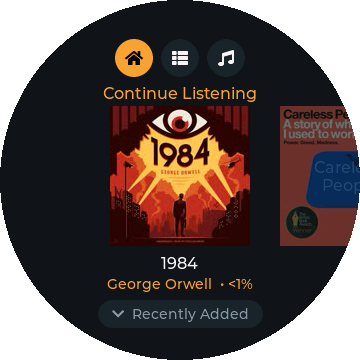
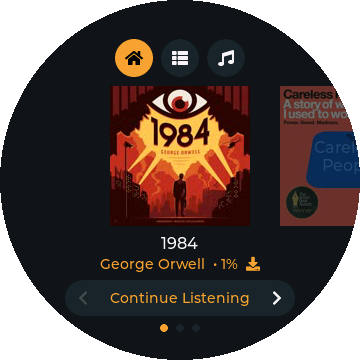
Home: switch shelves with a bottom switcher instead of vertical swipes
Vertical swipes were unreliable (touches were taken by the covers and
buttons). The shelf name now sits at the bottom in a pill with prev/next
arrows and a dot per shelf; tap an arrow or swipe left/right on the pill.
The pill stops gesture bubbling, so its swipes never also move the
carousel. With the title gone the covers move up. README screenshots
updated.

diff --git a/main/ui_home.c b/main/ui_home.c
@@ -1,16 +1,21 @@
-// Home: shelves of books, one row at a time. Swipe left/right within a row, up/down between rows.
+// Home: shelves of books, one at a time. Swipe left/right on the covers to browse a shelf; change
+// shelf with the switcher at the bottom ("<  Recently Added  >", with a dot per shelf): tap its
+// arrows or swipe left/right on it. Swipes on the switcher stay there (they don't bubble to the
+// page), so they never also move the carousel.
 
 #include "carousel.h"
 #include "cover.h"
 #include "ui_priv.h"
 
-#define ROW_TITLE_Y  PAGE_TOP
-#define CAROUSEL_Y   (PAGE_TOP + 22)
+#define CAROUSEL_Y   (PAGE_TOP + 2)
+#define SWITCHER_Y   (CAROUSEL_Y + COVER_THUMB_SIZE + 54)
+#define SWITCHER_W   230
+#define SWITCHER_H   36
 
 typedef struct {
     const char *name;
     const book_list_t *books;
-    int pos;  // remembered position within the row
+    int pos;  // remembered position within the shelf
 } row_t;
 
 static row_t s_rows[] = {
@@ -20,7 +25,8 @@ static row_t s_rows[] = {
 };
 #define ROW_COUNT (int)(sizeof(s_rows) / sizeof(s_rows[0]))
 
-static lv_obj_t *s_page, *s_group, *s_title, *s_hint, *s_empty;
+static lv_obj_t *s_group, *s_name, *s_prev, *s_next, *s_empty;
+static lv_obj_t *s_dots[ROW_COUNT];
 static carousel_t *s_carousel;
 static int s_row = -1;
 
@@ -37,9 +43,16 @@ static int next_row(int from, int dir)
     return -1;
 }
 
-static void group_set_y(void *obj, int32_t y)
+static void group_set_x(void *obj, int32_t x)
 {
-    lv_obj_set_y(obj, y);
+    lv_obj_set_x(obj, x);
+}
+
+static void set_enabled(lv_obj_t *btn, bool on)
+{
+    lv_obj_set_style_opa(lv_obj_get_child(btn, 0), on ? LV_OPA_COVER : LV_OPA_20, 0);
+    if (on) lv_obj_add_flag(btn, LV_OBJ_FLAG_CLICKABLE);
+    else lv_obj_remove_flag(btn, LV_OBJ_FLAG_CLICKABLE);
 }
 
 static void show_row(int r, int dir)
@@ -48,78 +61,84 @@ static void show_row(int r, int dir)
         s_rows[s_row].pos = carousel_pos(s_carousel);
     }
     s_row = r;
-    const bool any = r >= 0;
-    if (any) {
-        lv_obj_remove_flag(s_group, LV_OBJ_FLAG_HIDDEN);
-        lv_obj_add_flag(s_empty, LV_OBJ_FLAG_HIDDEN);
-    } else {
+    if (r < 0) {
         lv_obj_add_flag(s_group, LV_OBJ_FLAG_HIDDEN);
         lv_obj_remove_flag(s_empty, LV_OBJ_FLAG_HIDDEN);
         return;
     }
-    lv_label_set_text(s_title, s_rows[r].name);
-    carousel_set_items(s_carousel, s_rows[r].books->idx, s_rows[r].books->count, s_rows[r].pos);
+    lv_obj_remove_flag(s_group, LV_OBJ_FLAG_HIDDEN);
+    lv_obj_add_flag(s_empty, LV_OBJ_FLAG_HIDDEN);
 
-    // Point at the neighbouring shelf so the vertical swipe is discoverable.
-    int below = next_row(r, 1), above = next_row(r, -1);
-    static char hint[48];
-    if (below >= 0) {
-        lv_snprintf(hint, sizeof(hint), LV_SYMBOL_DOWN "  %s", s_rows[below].name);
-    } else if (above >= 0) {
-        lv_snprintf(hint, sizeof(hint), LV_SYMBOL_UP "  %s", s_rows[above].name);
-    } else {
-        hint[0] = 0;
+    lv_label_set_text(s_name, s_rows[r].name);
+    carousel_set_items(s_carousel, s_rows[r].books->idx, s_rows[r].books->count, s_rows[r].pos);
+    set_enabled(s_prev, next_row(r, -1) >= 0);
+    set_enabled(s_next, next_row(r, 1) >= 0);
+    // One dot per non-empty shelf; the current one highlighted.
+    for (int i = 0; i < ROW_COUNT; i++) {
+        if (row_has_books(i)) lv_obj_remove_flag(s_dots[i], LV_OBJ_FLAG_HIDDEN);
+        else lv_obj_add_flag(s_dots[i], LV_OBJ_FLAG_HIDDEN);
+        lv_obj_set_style_bg_color(s_dots[i], i == r ? COLOR_ACCENT : COLOR_CARD, 0);
     }
-    lv_label_set_text(s_hint, hint);
-    lv_obj_t *pill = lv_obj_get_parent(s_hint);
-    if (hint[0]) lv_obj_remove_flag(pill, LV_OBJ_FLAG_HIDDEN);
-    else lv_obj_add_flag(pill, LV_OBJ_FLAG_HIDDEN);
 
     if (dir) {
-        // Slide the new shelf in from the direction of travel.
+        // Slide the new shelf in from the side it came from.
         lv_anim_t a;
         lv_anim_init(&a);
         lv_anim_set_var(&a, s_group);
-        lv_anim_set_exec_cb(&a, group_set_y);
-        lv_anim_set_values(&a, dir * 50, 0);
+        lv_anim_set_exec_cb(&a, group_set_x);
+        lv_anim_set_values(&a, dir * 40, 0);
         lv_anim_set_duration(&a, 200);
         lv_anim_set_path_cb(&a, lv_anim_path_ease_out);
         lv_anim_start(&a);
     }
 }
 
-static void on_gesture(lv_event_t *e)
+static void change_shelf(int dir)
 {
-    if (s_row < 0) return;
-    switch (lv_indev_get_gesture_dir(lv_indev_active())) {
-    case LV_DIR_LEFT:  carousel_step(s_carousel, 1); break;
-    case LV_DIR_RIGHT: carousel_step(s_carousel, -1); break;
-    case LV_DIR_TOP: {
-        int r = next_row(s_row, 1);
-        if (r >= 0) show_row(r, 1);
-        break;
-    }
-    case LV_DIR_BOTTOM: {
-        int r = next_row(s_row, -1);
-        if (r >= 0) show_row(r, -1);
-        break;
-    }
-    default: break;
-    }
+    int r = next_row(s_row, dir);
+    if (r >= 0) show_row(r, dir);
 }
 
-static void on_hint_clicked(lv_event_t *e)
+static void on_prev(lv_event_t *e) { change_shelf(-1); }
+static void on_next(lv_event_t *e) { change_shelf(1); }
+
+static void on_switcher_gesture(lv_event_t *e)
 {
-    int r = next_row(s_row, 1);
-    if (r >= 0) show_row(r, 1);
-    else if ((r = next_row(s_row, -1)) >= 0) show_row(r, -1);
+    lv_dir_t dir = lv_indev_get_gesture_dir(lv_indev_active());
+    if (dir == LV_DIR_LEFT) change_shelf(1);
+    else if (dir == LV_DIR_RIGHT) change_shelf(-1);
+}
+
+// Swipes anywhere else on the page browse the current shelf.
+static void on_page_gesture(lv_event_t *e)
+{
+    if (s_row < 0) return;
+    lv_dir_t dir = lv_indev_get_gesture_dir(lv_indev_active());
+    if (dir == LV_DIR_LEFT) carousel_step(s_carousel, 1);
+    else if (dir == LV_DIR_RIGHT) carousel_step(s_carousel, -1);
+}
+
+static lv_obj_t *arrow(lv_obj_t *parent, const char *sym, lv_event_cb_t cb, lv_align_t align)
+{
+    lv_obj_t *b = lv_button_create(parent);
+    lv_obj_set_size(b, SWITCHER_H, SWITCHER_H);
+    lv_obj_set_style_radius(b, LV_RADIUS_CIRCLE, 0);
+    lv_obj_set_style_bg_opa(b, LV_OPA_TRANSP, 0);
+    lv_obj_set_style_bg_color(b, COLOR_ACCENT, LV_STATE_PRESSED);
+    lv_obj_set_style_bg_opa(b, LV_OPA_COVER, LV_STATE_PRESSED);
+    lv_obj_set_style_shadow_width(b, 0, 0);
+    lv_obj_align(b, align, 0, 0);
+    lv_obj_t *l = ui_label(b, &lv_font_montserrat_16, COLOR_TEXT, 0);
+    lv_label_set_text(l, sym);
+    lv_obj_center(l);
+    lv_obj_add_event_cb(b, cb, LV_EVENT_CLICKED, NULL);
+    return b;
 }
 
 void home_build(lv_obj_t *page)
 {
-    s_page = page;
     lv_obj_add_flag(page, LV_OBJ_FLAG_CLICKABLE);  // so swipes on empty space register
-    lv_obj_add_event_cb(page, on_gesture, LV_EVENT_GESTURE, NULL);
+    lv_obj_add_event_cb(page, on_page_gesture, LV_EVENT_GESTURE, NULL);
 
     s_group = lv_obj_create(page);
     lv_obj_remove_style_all(s_group);
@@ -127,27 +146,42 @@ void home_build(lv_obj_t *page)
     lv_obj_remove_flag(s_group, LV_OBJ_FLAG_SCROLLABLE);
     lv_obj_remove_flag(s_group, LV_OBJ_FLAG_CLICKABLE);
 
-    s_title = ui_label(s_group, &lv_font_montserrat_16, COLOR_ACCENT, 260);
-    lv_obj_align(s_title, LV_ALIGN_TOP_MID, 0, ROW_TITLE_Y);
-
     // No ring on Home, so the carousel can use the full width.
     const carousel_cfg_t cfg = {.y = CAROUSEL_Y, .x = 0, .width = 360, .title_w = 240, .sub_w = 230};
     s_carousel = carousel_create(s_group, &cfg);
 
-    // Names the neighbouring shelf; tapping it moves there too (swiping isn't discoverable).
-    lv_obj_t *pill = lv_button_create(s_group);
-    lv_obj_set_size(pill, LV_SIZE_CONTENT, 28);
-    lv_obj_set_style_radius(pill, 14, 0);
-    lv_obj_set_style_bg_color(pill, COLOR_CARD, 0);
-    lv_obj_set_style_bg_color(pill, COLOR_ACCENT, LV_STATE_PRESSED);
-    lv_obj_set_style_shadow_width(pill, 0, 0);
-    lv_obj_set_style_pad_hor(pill, 14, 0);
-    lv_obj_set_style_pad_ver(pill, 0, 0);
-    lv_obj_align(pill, LV_ALIGN_TOP_MID, 0, CAROUSEL_Y + COVER_THUMB_SIZE + 54);
-    lv_obj_add_event_cb(pill, on_hint_clicked, LV_EVENT_CLICKED, NULL);
-    s_hint = ui_label(pill, &lv_font_montserrat_14, COLOR_MUTED, 0);
-    lv_obj_center(s_hint);
+    // Shelf switcher. Clickable so it receives swipes itself; gestures don't bubble past it.
+    lv_obj_t *sw = lv_obj_create(s_group);
+    lv_obj_remove_style_all(sw);
+    lv_obj_set_size(sw, SWITCHER_W, SWITCHER_H);
+    lv_obj_align(sw, LV_ALIGN_TOP_MID, 0, SWITCHER_Y);
+    lv_obj_set_style_radius(sw, SWITCHER_H / 2, 0);
+    lv_obj_set_style_bg_color(sw, COLOR_CARD, 0);
+    lv_obj_set_style_bg_opa(sw, LV_OPA_COVER, 0);
+    lv_obj_add_flag(sw, LV_OBJ_FLAG_CLICKABLE);
+    lv_obj_remove_flag(sw, LV_OBJ_FLAG_SCROLLABLE | LV_OBJ_FLAG_GESTURE_BUBBLE);
+    lv_obj_add_event_cb(sw, on_switcher_gesture, LV_EVENT_GESTURE, NULL);
 
+    s_prev = arrow(sw, LV_SYMBOL_LEFT, on_prev, LV_ALIGN_LEFT_MID);
+    s_next = arrow(sw, LV_SYMBOL_RIGHT, on_next, LV_ALIGN_RIGHT_MID);
+    s_name = ui_label(sw, &lv_font_montserrat_14, COLOR_ACCENT, SWITCHER_W - 2 * SWITCHER_H - 8);
+    lv_label_set_long_mode(s_name, LV_LABEL_LONG_SCROLL_CIRCULAR);
+    lv_obj_center(s_name);
+
+    lv_obj_t *dots = lv_obj_create(s_group);
+    lv_obj_remove_style_all(dots);
+    lv_obj_set_size(dots, LV_SIZE_CONTENT, 8);
+    lv_obj_set_flex_flow(dots, LV_FLEX_FLOW_ROW);
+    lv_obj_set_style_pad_column(dots, 8, 0);
+    lv_obj_align(dots, LV_ALIGN_TOP_MID, 0, SWITCHER_Y + SWITCHER_H + 8);
+    lv_obj_remove_flag(dots, LV_OBJ_FLAG_CLICKABLE | LV_OBJ_FLAG_SCROLLABLE);
+    for (int i = 0; i < ROW_COUNT; i++) {
+        s_dots[i] = lv_obj_create(dots);
+        lv_obj_remove_style_all(s_dots[i]);
+        lv_obj_set_size(s_dots[i], 8, 8);
+        lv_obj_set_style_radius(s_dots[i], LV_RADIUS_CIRCLE, 0);
+        lv_obj_set_style_bg_opa(s_dots[i], LV_OPA_COVER, 0);
+    }
 
     s_empty = ui_label(page, &lv_font_montserrat_16, COLOR_MUTED, 240);
     lv_label_set_long_mode(s_empty, LV_LABEL_LONG_WRAP);
@@ -179,10 +213,9 @@ void home_refresh(void)
     if (s_row >= 0) carousel_refresh(s_carousel);
 }
 
-
 #ifdef UI_CAPTURE
 void home_debug_next_row(void)
 {
-    on_hint_clicked(NULL);
+    change_shelf(1);
 }
 #endif

diff --git a/README.md b/README.md
@@ -18,8 +18,9 @@ Audiobookshelf is a self-hosted server for audiobooks. Its clients are phone and
 a tiny dedicated player (a round screen with a speaker, sitting on a desk or bedside table) is
 nicer for "just carry on with my book". This firmware turns an inexpensive dev board into that:
 
-- **Home:** "Continue Listening" and "Recently Added" shelves of cover art. Swipe left/right
-  within a shelf, up/down between shelves.
+- **Home:** "Continue Listening", "Recently Added" and "Downloaded" shelves of cover art. Swipe
+  left/right on the covers to browse; switch shelf with the arrows (or a swipe) on the shelf name
+  at the bottom, where dots show which shelf you're on.
 - **Library:** every book as an A-Z list, a cover carousel, or grouped by author, with an A-Z
   scrub ring on the right edge.
 - **Now Playing:** cover art backdrop, a chapter-progress ring you can drag to scrub, ±30 s,
